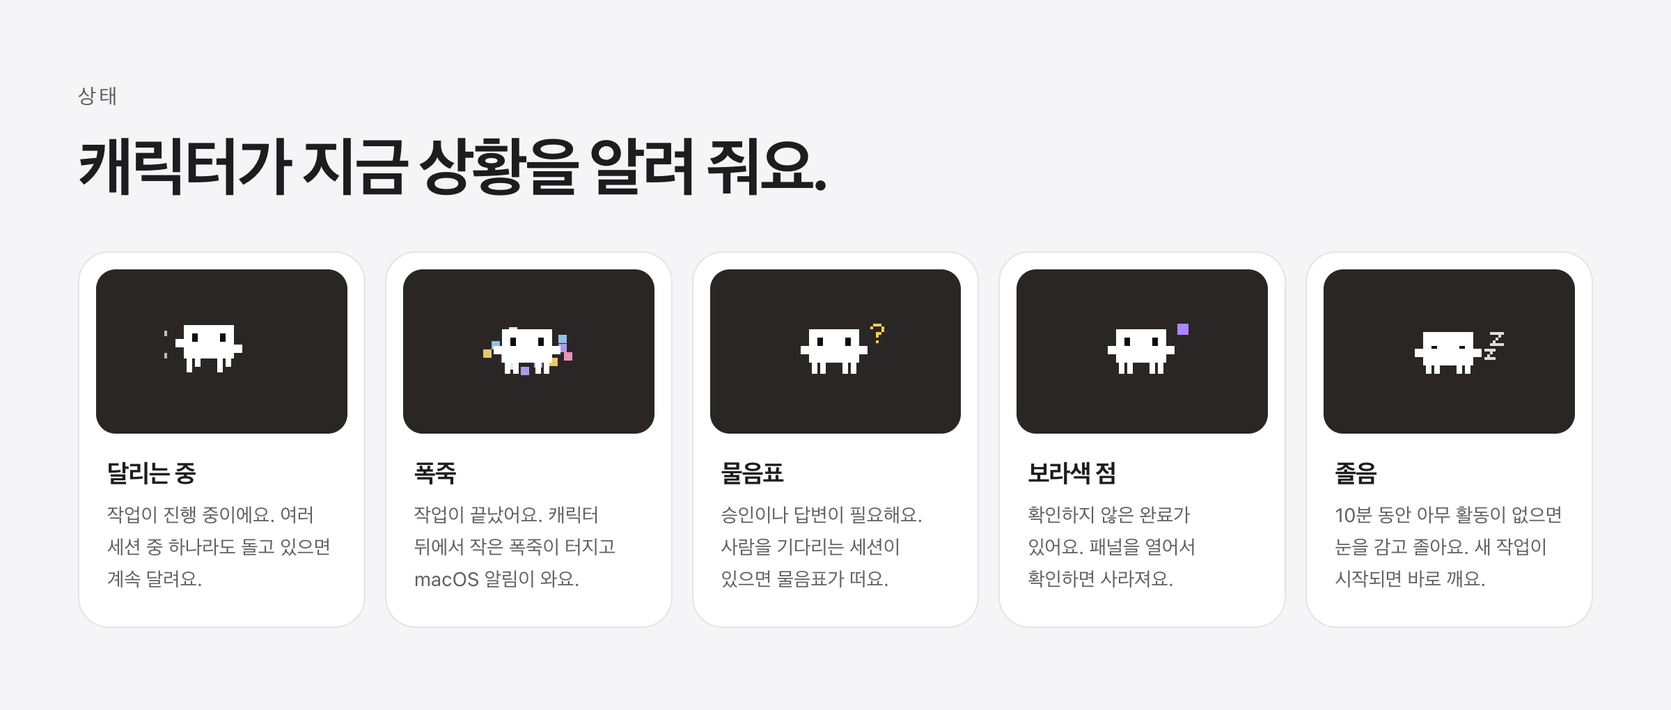
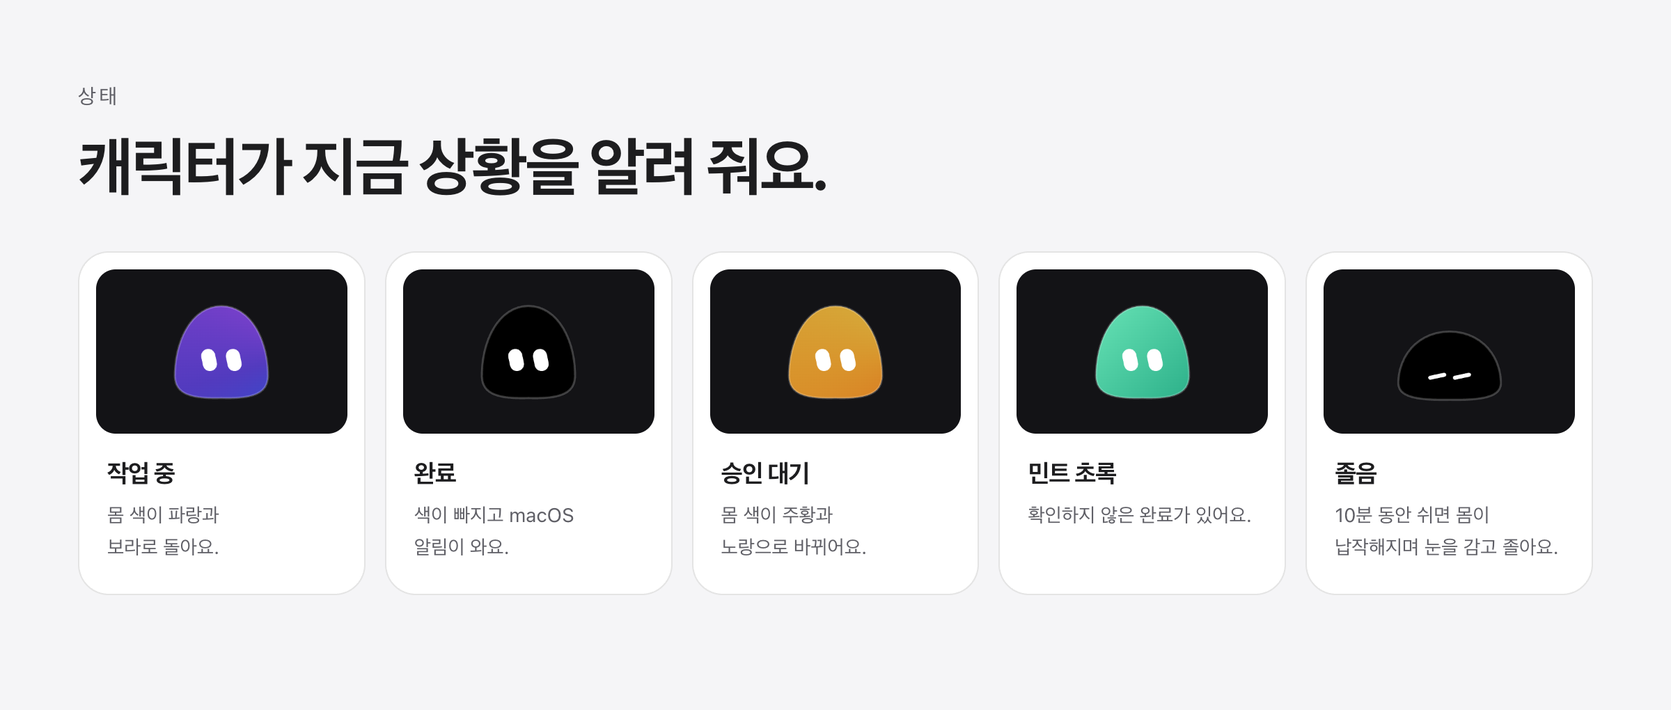
docs: README 이미지를 바뀐 토토와 최신 랜딩 문구로 다시 만듦
히어로, 설치, 상태, 기능, 알림 이미지의 원본을 최신 랜딩에 맞췄다.
토토는 랜딩의 캔버스 그리기를 옮기고, 상단바 표기와 설치 단계 문구, 벤토 기능 구성, 표시할 패널 메뉴를 반영했다.
설치와 기능 슬라이드 높이가 바뀌어 build.sh의 값도 함께 고쳤다.

Refs #79

diff --git a/docs/images/readme/source.html b/docs/images/readme/source.html
@@ -40,10 +40,10 @@
   .slide:target { display: block; }
   #hero { height: 956px; border-radius: 32px 32px 0 0; }
   #notice { border-radius: 0 0 32px 32px; }
-  #install { height: 660px; }
+  #install { height: 822px; }
   #problem { height: 376px; }
   #states { height: 510px; }
-  #features { height: 1170px; }
+  #features { height: 1545px; }
   #privacy { height: 680px; }
   #notice { height: 250px; }
   .eyebrow { font-family: var(--font-pixel); font-size: 15px; letter-spacing: 0.14em; color: var(--muted); }
@@ -54,12 +54,12 @@
   .card p { margin: 8px 8px 0; font-size: 16px; color: var(--muted); line-height: 1.65; }
 
   /* 캐릭터 */
-  canvas.sp { display: block; image-rendering: pixelated; }
-  .strip { background: var(--strip); border-radius: 14px; height: 118px; display: grid; place-items: center; }
+  canvas.toto { display: block; }
+  .strip { background: #131316; border-radius: 14px; height: 118px; display: grid; place-items: center; }
 
   /* 히어로 */
   .brand { display: flex; align-items: center; gap: 12px; font-family: var(--font-pixel); font-size: 22px; letter-spacing: 0.06em; }
-  .brand .logo { background: var(--strip); border-radius: 10px; padding: 4px 6px 2px; }
+  .brand .logo { background: var(--strip); border-radius: 10px; padding: 4px; display: grid; }
   .hero-title { margin-top: 26px; font-size: 68px; font-weight: 700; letter-spacing: -0.045em; line-height: 1.1; }
   .hero-lead { margin-top: 20px; font-size: 21px; color: var(--muted); }
   .pills { margin-top: 24px; display: flex; gap: 10px; }
@@ -113,7 +113,7 @@
   .row .track i { background: rgba(255, 255, 255, 0.62); }
   .row .more { display: none; justify-content: space-between; margin-top: 8px; font-size: 11px; color: rgba(255, 255, 255, 0.6); font-variant-numeric: tabular-nums; }
   .row.hover { background: linear-gradient(100deg, rgba(150, 160, 230, 0.28), rgba(230, 140, 190, 0.3)); }
-  .row.hover .more { display: flex; }
+  .row.hover .more, .row.open .more { display: flex; }
   .cursor { position: absolute; z-index: 9; width: 24px; height: 29px; filter: drop-shadow(0 1px 1.5px rgba(0, 0, 0, 0.45)); }
 
   /* 설치 */
@@ -128,6 +128,9 @@
   .steps li { display: grid; grid-template-columns: 26px 1fr; gap: 8px; counter-increment: step; }
   .steps li::before { content: counter(step); font-family: var(--font-pixel); font-size: 17px; }
   .req { margin-top: auto; padding-top: 24px; display: flex; flex-wrap: wrap; gap: 10px; }
+  .cols .why-card { grid-column: 1 / -1; padding: 22px 28px 24px; }
+  .why-card p { margin: 0; font-size: 15px; line-height: 1.7; color: var(--muted); }
+  .why-card b { color: var(--fg); font-weight: 700; }
 
   /* 문제와 상태 */
   .three { margin-top: 34px; display: grid; grid-template-columns: repeat(3, 1fr); gap: 20px; }
@@ -142,6 +145,13 @@
 
   /* 기능 */
   .fgrid { margin-top: 34px; display: grid; grid-template-columns: repeat(3, 1fr); gap: 20px; }
+  .fgrid .wide, .fgrid .full { display: grid; grid-template-columns: minmax(0, 0.8fr) minmax(0, 1.2fr); gap: 28px; align-items: center; padding: 28px; }
+  .fgrid .wide { grid-column: span 2; }
+  .fgrid .full { grid-column: 1 / -1; }
+  .fgrid .ftext { order: -1; }
+  .fgrid .ftext h3 { margin: 0; font-size: 28px; }
+  .fgrid .ftext p { margin: 12px 0 0; font-size: 17px; color: var(--muted); line-height: 1.65; }
+  .fgrid .wide .fv, .fgrid .full .fv { aspect-ratio: auto; min-height: 300px; height: 100%; }
   .fv { aspect-ratio: 1 / 0.86; border-radius: 14px; background: var(--wallpaper); display: grid; place-items: center; padding: 20px; overflow: hidden; }
   .fv .glass, .fv-stack { width: 100%; }
   .fv-stack { display: grid; gap: 10px; }
@@ -158,7 +168,7 @@
   .fv-noti small { font-size: 12px; opacity: 0.75; }
   .menu-wrap { position: relative; width: 178px; margin-right: 74px; }
   .menu, .sub-menu { padding: 5px; border-radius: 12px; color: #1d1d1f; font-size: 11.5px; line-height: 20px; background: rgba(246, 246, 248, 0.88); border: 0.5px solid rgba(0, 0, 0, 0.14); box-shadow: 0 12px 28px rgba(0, 20, 80, 0.32); }
-  .sub-menu { position: absolute; left: calc(100% - 10px); top: 114px; min-width: 84px; }
+  .sub-menu { position: absolute; left: calc(100% - 10px); top: 94px; min-width: 84px; }
   .mi { display: flex; align-items: center; height: 20px; padding: 0 8px 0 4px; border-radius: 6px; white-space: nowrap; }
   .mi.checked > :first-child::before { content: "\2713"; }
   .mi > :first-child { width: 14px; flex: none; text-align: center; font-size: 10px; }
@@ -180,13 +190,13 @@
 
 <!-- 1. 히어로 -->
 <section class="slide" id="hero">
-  <div class="brand"><span class="logo"><canvas class="sp" data-unit="1" data-mode="stand" data-track="30"></canvas></span>Desktoto</div>
-  <h1 class="hero-title">AI가 일하는 동안,<br>메뉴바에서 지켜보세요.</h1>
-  <p class="hero-lead">AI Agent(Claude Code, Codex) 세션의 진행 상태를 메뉴바의 작은 캐릭터로 보여줘요.</p>
+  <div class="brand"><span class="logo"><canvas class="toto" data-size="26" data-mode="run" data-turn="0.12"></canvas></span>Desktoto</div>
+  <h1 class="hero-title">AI가 일하는 동안,<br>지켜보세요.</h1>
+  <p class="hero-lead">AI Agent(Claude Code, Codex) 세션의 진행 상태를 상단바나 노치의 작은 캐릭터로 보여줘요.</p>
   <div class="pills"><span class="pill dark">macOS 26 이상</span><span class="pill">Apple Silicon</span><span class="pill">무료</span></div>
   <div class="tour">
     <svg class="tour-line" viewBox="0 0 1088 410" preserveAspectRatio="xMidYMid slice" aria-hidden="true"><path d="M-80 220 L0 236 C190 270 420 392 580 388 C780 380 960 220 1088 70 C1150 0 1210 -70 1260 -130" fill="none" stroke="#fff" stroke-width="1.6" opacity="0.8"/></svg>
-    <div class="menubar"><div class="left"><b>Finder</b><span>파일</span><span>편집</span><span>보기</span><span>이동</span></div><div class="right"><canvas class="sp" data-unit="2" data-mode="run" data-phase="5" data-track="41"></canvas><span class="mpill">한</span><span>오전 10:24</span></div></div>
+    <div class="menubar"><div class="left"><b>Finder</b><span>파일</span><span>편집</span><span>보기</span><span>이동</span></div><div class="right"><canvas class="toto" data-size="28" data-mode="run" data-turn="0.2"></canvas><span class="mpill">한</span><span>오전 10:24</span></div></div>
     <div class="win term"><div class="bar"><span class="lights"><i></i><i></i><i></i></span><span>claude — payments</span></div><div class="tx"><div><span class="c-b">❯</span> claude</div><div><span class="c-g">●</span> 결제 모듈을 정리할게요.</div><div class="c-d">  Read(src/payments/charge.ts)</div><div class="c-d">  Edit(src/payments/refund.ts)</div><div><span class="c-g">✓</span> 테스트 12개 통과</div><div><span class="c-y">?</span> 이 변경을 적용할까요?</div></div></div>
     <div class="win app front"><div class="bar"><span class="lights"><i></i><i></i><i></i></span><span>로그인 버그 수정</span></div><div class="main"><div class="side"><p class="on">로그인 버그 수정</p><p>문서 정리</p><p>결제 모듈 리팩터링</p></div><div class="chat"><div class="me">로그인이 가끔 실패하는 이유를 찾아줘</div><div class="ai">토큰이 만료될 때 갱신 요청이 두 번 나가고 있어요. 한 번만 보내도록 고칠게요.</div><div class="inp">메시지를 입력하세요</div></div></div></div>
     <div class="panel">
@@ -220,13 +230,14 @@
       <h3>dmg로 설치</h3>
       <ol class="steps">
         <li><span>Desktoto.dmg를 받아 열고, Desktoto를 응용 프로그램 폴더로 끌어다 놓아요.</span></li>
-        <li><span>처음 열면 개발자를 확인할 수 없다는 경고가 떠요. 창을 닫아요.</span></li>
-        <li><span>시스템 설정, 개인정보 보호 및 보안 맨 아래에서 &ldquo;그래도 열기&rdquo;를 누르고 암호를 입력해요.</span></li>
-        <li><span>다시 열면 메뉴바에 캐릭터가 나타나요.</span></li>
+        <li><span>처음 열면 &lsquo;열지 않음&rsquo; 경고가 떠요. &lsquo;휴지통으로 이동&rsquo;이 아니라 &lsquo;완료&rsquo;를 눌러요.</span></li>
+        <li><span>시스템 설정, 개인정보 보호 및 보안의 &lsquo;보안&rsquo; 영역에서 &ldquo;그래도 열기&rdquo;를 누르고 암호를 입력해요. 이 버튼은 앱을 열려고 한 뒤 약 1시간 동안만 보여요.</span></li>
+        <li><span>다시 열면 상단바에 캐릭터가 나타나요.</span></li>
       </ol>
       <p class="sub" style="margin-top:18px; font-size:15px">터미널이 편하다면 이 명령으로 경고 없이 열 수도 있어요.</p>
       <div class="cmd small" style="margin-top:10px"><span class="pr">$</span><span>xattr -dr com.apple.quarantine /Applications/Desktoto.app</span></div>
     </div>
+    <div class="card why-card"><p><b>왜 이런 과정이 필요한가요?</b> Mac은 인터넷에서 받은 앱을 처음 열 때, Apple에 등록된 개발자가 만들었고 Apple의 검사(공증)를 거쳤는지 확인해요. Desktoto는 아직 이 공증을 받지 않아서, 앱에 문제가 있다는 뜻이 아니라 &ldquo;Apple이 확인하지 못했다&rdquo;는 경고가 떠요. 한 번 허용하면 예외로 저장되어 다음부터는 바로 열려요.</p></div>
   </div>
 </section>
 
@@ -246,11 +257,11 @@
   <p class="eyebrow">상태</p>
   <h2 class="title">캐릭터가 지금 상황을 알려 줘요.</h2>
   <div class="five">
-    <div class="card"><div class="strip"><canvas class="sp" data-unit="2" data-mode="run" data-phase="8" data-track="41"></canvas></div><h3>달리는 중</h3><p>작업이 진행 중이에요. 여러 세션 중 하나라도 돌고 있으면 계속 달려요.</p></div>
-    <div class="card"><div class="strip"><canvas class="sp" data-unit="2" data-mode="stand" data-fw="9" data-track="41"></canvas></div><h3>폭죽</h3><p>작업이 끝났어요. 캐릭터 뒤에서 작은 폭죽이 터지고 macOS 알림이 와요.</p></div>
-    <div class="card"><div class="strip"><canvas class="sp" data-unit="2" data-mode="stand" data-wait="1" data-track="41"></canvas></div><h3>물음표</h3><p>승인이나 답변이 필요해요. 사람을 기다리는 세션이 있으면 물음표가 떠요.</p></div>
-    <div class="card"><div class="strip"><canvas class="sp" data-unit="2" data-mode="stand" data-dot="1" data-track="41"></canvas></div><h3>보라색 점</h3><p>확인하지 않은 완료가 있어요. 패널을 열어서 확인하면 사라져요.</p></div>
-    <div class="card"><div class="strip"><canvas class="sp" data-unit="2" data-mode="sleep" data-sleep="2" data-track="41"></canvas></div><h3>졸음</h3><p>10분 동안 아무 활동이 없으면 눈을 감고 졸아요. 새 작업이 시작되면 바로 깨요.</p></div>
+    <div class="card"><div class="strip"><canvas class="toto" data-size="76" data-mode="run" data-turn="0.12"></canvas></div><h3>작업 중</h3><p>몸 색이 파랑과 보라로 돌아요.</p></div>
+    <div class="card"><div class="strip"><canvas class="toto" data-size="76" data-mode="done"></canvas></div><h3>완료</h3><p>색이 빠지고 macOS 알림이 와요.</p></div>
+    <div class="card"><div class="strip"><canvas class="toto" data-size="76" data-mode="wait" data-turn="0.3"></canvas></div><h3>승인 대기</h3><p>몸 색이 주황과 노랑으로 바뀌어요.</p></div>
+    <div class="card"><div class="strip"><canvas class="toto" data-size="76" data-mode="dot"></canvas></div><h3>민트 초록</h3><p>확인하지 않은 완료가 있어요.</p></div>
+    <div class="card"><div class="strip"><canvas class="toto" data-size="76" data-mode="sleep"></canvas></div><h3>졸음</h3><p>10분 동안 쉬면 몸이 납작해지며 눈을 감고 졸아요.</p></div>
   </div>
 </section>
 
@@ -259,16 +270,16 @@
   <p class="eyebrow">기능</p>
   <h2 class="title">필요한 것만 보이게 했어요.</h2>
   <div class="fgrid">
-    <div class="card">
-      <div class="fv"><div class="glass sessions"><div class="row"><div class="head"><span>결제 모듈 리팩터링</span><span>37%</span></div><div class="track"><i style="width:37%"></i></div></div><div class="row"><div class="head"><span>로그인 버그 수정</span><span>18%</span></div><div class="track"><i style="width:18%"></i></div></div><div class="row"><div class="head"><span>문서 정리</span><span>8%</span></div><div class="track"><i style="width:8%"></i></div></div></div></div>
-      <h3>한 패널에 모든 세션</h3><p>제목, 컨텍스트 사용률, 막대만 보여요. 모델과 토큰 수는 마우스를 올렸을 때만 펼쳐져요. 승인이나 답변이 필요한 세션은 맨 위로 올라와요.</p>
+    <div class="card wide">
+      <div class="fv"><div class="glass sessions"><div class="row hover"><div class="head"><span>결제 모듈 리팩터링</span><span>37%</span></div><div class="track"><i style="width:37%"></i></div><div class="more"><span>claude-sonnet-5-5</span><span>372K / 1M</span></div></div><div class="row"><div class="head"><span>로그인 버그 수정</span><span>18%</span></div><div class="track"><i style="width:18%"></i></div></div><div class="row"><div class="head"><span>문서 정리</span><span>8%</span></div><div class="track"><i style="width:8%"></i></div></div></div></div>
+      <div class="ftext"><h3>한 패널에 모든 세션</h3><p>제목, 컨텍스트 사용률, 막대만 보여요. 모델과 토큰 수는 마우스를 올렸을 때만 펼쳐져요. 승인이나 답변이 필요한 세션은 맨 위로 올라와요.</p></div>
     </div>
     <div class="card">
       <div class="fv"><div class="glass usage"><div class="sec"><h4>Claude</h4><div class="use"><span>5시간</span><div class="track"><i style="width:42%"></i></div><b>42%</b><em>3시간 12분</em></div><div class="use"><span>주간</span><div class="track"><i style="width:18%"></i></div><b>18%</b><em>4일 2시간</em></div></div><div class="sec"><h4>Codex</h4><div class="use"><span>5시간</span><div class="track"><i style="width:12%"></i></div><b>12%</b><em>4시간 40분</em></div><div class="use"><span>주간</span><div class="track"><i style="width:6%"></i></div><b>6%</b><em>6일 1시간</em></div></div></div></div>
-      <h3>AI 사용량도 한눈에</h3><p>Claude와 Codex의 5시간과 주간 한도를 패널 맨 위에 고정해서 보여줘요. 얼마나 썼는지와 초기화까지 남은 시간을 알 수 있어요.</p>
+      <h3>AI 사용량도 한눈에</h3><p>Claude와 Codex의 5시간과 주간 한도를 패널 맨 위에 고정해서 보여줘요. 얼마나 썼는지와 초기화까지 남은 시간을 알 수 있고, 한도에 가까워지면 막대 색이 바뀌어요.</p>
     </div>
     <div class="card">
-      <div class="fv"><div class="glass sessions"><div class="row hover"><div class="head"><span>결제 모듈 리팩터링</span><span>37%</span></div><div class="track"><i style="width:37%"></i></div><div class="more"><span>claude-sonnet-5-5</span><span>372K / 1M</span></div></div><div class="row"><div class="head"><span>로그인 버그 수정</span><span>18%</span></div><div class="track"><i style="width:18%"></i></div></div><div class="row"><div class="head"><span>문서 정리</span><span>8%</span></div><div class="track"><i style="width:8%"></i></div></div></div></div>
+      <div class="fv"><div class="glass sessions"><div class="row open"><div class="head"><span>결제 모듈 리팩터링</span><span>37%</span></div><div class="track"><i style="width:37%"></i></div><div class="more"><span>claude-sonnet-5-5</span><span>372K / 1M</span></div></div><div class="row open"><div class="head"><span>로그인 버그 수정</span><span>18%</span></div><div class="track"><i style="width:18%"></i></div><div class="more"><span>claude-opus-4-8</span><span>181K / 1M</span></div></div><div class="row open"><div class="head"><span>문서 정리</span><span>8%</span></div><div class="track"><i style="width:8%"></i></div><div class="more"><span>claude-haiku-5-5</span><span>75K / 1M</span></div></div></div></div>
       <h3>컨텍스트 사용률</h3><p>모델마다 다른 컨텍스트 창 크기를 반영해서 사용률을 계산해요.</p>
     </div>
     <div class="card">
@@ -279,7 +290,8 @@
       <div class="fv"><div class="fv-stack"><div class="fv-noti"><b>Desktoto</b><span>작업이 끝났어요</span><small>결제 모듈 리팩터링</small></div><div class="fv-noti"><b>Desktoto</b><span>승인이 필요해요</span><small>로그인 버그 수정</small></div></div></div>
       <h3>알림을 눌러도 이동해요</h3><p>macOS 알림으로 &ldquo;작업이 끝났어요&rdquo;, &ldquo;승인이 필요해요&rdquo;, &ldquo;답변이 필요해요&rdquo;를 알려요. 알림을 누르면 해당 세션으로 가요.</p>
     </div>
-    <div class="card">
+    <div class="card full">
+      <div class="ftext"><h3>내 취향대로 꾸밀 수 있어요</h3><p>색상은 흰색과 컬러, 테마는 라이트와 다크와 시스템 설정에 맞춤 중에서 고를 수 있어요. Liquid Glass는 투명에서 틴트까지 5단계이고, 패널에는 사용량과 컨텍스트 중 보고 싶은 것만 띄울 수도 있어요.</p></div>
       <div class="fv"><div class="menu-wrap">
         <div class="menu">
           <div class="mi checked"><span></span><span>로그인 시 자동 실행</span></div>
@@ -287,16 +299,15 @@
           <div class="mi checked"><span></span><span>Codex 연동</span></div>
           <div class="mi checked"><span></span><span>Claude 연동</span></div>
           <div class="msep"></div>
-          <div class="mi sub"><span></span><span>표시할 패널</span></div>
-          <div class="mi sub on"><span></span><span>색상</span></div>
+          <div class="mi sub on"><span></span><span>표시할 패널</span></div>
+          <div class="mi sub"><span></span><span>색상</span></div>
           <div class="mi sub"><span></span><span>테마</span></div>
           <div class="mi sub"><span></span><span>Liquid Glass</span></div>
           <div class="msep"></div>
           <div class="mi"><span></span><span>Desktoto 종료</span><span class="key">&#8984;Q</span></div>
         </div>
-        <div class="sub-menu"><div class="mi checked"><span></span><span>흰색</span></div><div class="mi"><span></span><span>컬러</span></div></div>
+        <div class="sub-menu"><div class="mi checked"><span></span><span>사용량</span></div><div class="mi checked"><span></span><span>컨텍스트</span></div></div>
       </div></div>
-      <h3>내 취향대로 꾸밀 수 있어요</h3><p>색상은 흰색과 컬러, 테마는 라이트와 다크와 시스템 설정에 맞춤 중에서 고를 수 있어요. Liquid Glass는 투명에서 틴트까지 5단계예요.</p>
     </div>
   </div>
 </section>
@@ -318,75 +329,70 @@
 <section class="slide" id="notice">
   <p>알아 두세요</p>
   <p>Desktoto는 수익을 목적으로 하지 않는 무료 프로젝트예요. 광고도, 결제도 없어요.</p>
-  <p>캐릭터는 Claude Code의 마스코트에서 영감을 받은 팬 작품이에요. Claude는 Anthropic의, Codex는 OpenAI의 상표이고, Desktoto는 두 회사의 공식 제품이 아니에요.</p>
+  <p>Claude는 Anthropic의, Codex는 OpenAI의 상표이고, Desktoto는 어느 회사의 공식 제품도 아니에요.</p>
 </section>
 
 <script>
-/* 캐릭터 그리기: 앱(SpriteRenderer.swift)과 같은 격자와 도형이다. 한 칸이 화면 픽셀 정수 배가 되도록 맞춘다. */
+/* 캐릭터 그리기: 랜딩 페이지(apps/web/index.html)의 상태 줄과 같은 코드이고, 앱의 TotoShape.swift, TotoArt.swift와 같은 모양이다.
+   만두 모양 몸, 옅은 테두리, 12도 기울어진 알약 눈이다. README는 정지 이미지라서 눈 깜빡임과 몸 색 회전은 한 프레임으로 고정한다.
+   data-mode: run(작업 중), wait(승인 대기), done(완료), dot(민트 초록), sleep(졸음), stand(기본). data-size: 몸 크기(px). data-turn: 몸 색 회전(0에서 1). */
 (function () {
-  var UNITS_WIDE = 41, CHAR_W = 24, TRACK = 36, TRAVEL = TRACK - CHAR_W;
-  var STAND_X = Math.floor((UNITS_WIDE - CHAR_W) / 2);
-  var RUN_FRAMES = 24, LEG_FRAMES = 3, FW_FRAMES = 24, MAX_BOB = 2;
-  var LEG_COLUMNS = [4, 7, 15, 18];
-  var Z_SMALL = ["1111", "0010", "0100", "1111"];
-  var Z_BIG = ["11111", "00010", "00100", "01000", "11111"];
-  var Z_STEPS = [[[0, 0, 11]], [[0, 0, 9]], [[0, 0, 9], [1, 2, 3]], [[0, 0, 9], [1, 2, 3]], [[1, 2, 2]], []];
-  var QUESTION = ["01110", "10001", "00001", "00110", "00100", "00000", "00100"];
-  var REACHES = [19, 15, 11];
-  var SPARK_COLORS = ["#ff9ec7", "#ffd973", "#9ed1ff", "#bda9ff", "#ffffff"];
+  var WORKING = ["#298ff5", "#385cf5", "#6145e0", "#944cf0", "#bd4ddb", "#6b70fa", "#298ff5"];
+  var WAITING = ["#ff8c26", "#ffad33", "#facc47", "#ff9e2e", "#f57a24", "#ffbd3d", "#ff8c26"];
+  var UNSEEN_DONE = ["#6be6b8", "#29ad87"];
+  var PAD = 2;
+
+  function addTotoPath(ctx, x, y, w, h) {
+    var p = function (fx, fy) { return [x + fx * w, y + fy * h]; };
+    var a = p(0.5, 0.94);
+    ctx.moveTo(a[0], a[1]);
+    [[[0.16, 0.95], [0.05, 0.88], [0.06, 0.7]], [[0.07, 0.36], [0.24, 0.07], [0.5, 0.07]], [[0.76, 0.07], [0.93, 0.36], [0.94, 0.7]], [[0.95, 0.88], [0.84, 0.95], [0.5, 0.94]]].forEach(function (c) {
+      var c1 = p(c[0][0], c[0][1]), c2 = p(c[1][0], c[1][1]), e = p(c[2][0], c[2][1]);
+      ctx.bezierCurveTo(c1[0], c1[1], c2[0], c2[1], e[0], e[1]);
+    });
+    ctx.closePath();
+  }
+
+  function drawEye(ctx, x, y, w, h) {
+    ctx.save(); ctx.translate(x, y); ctx.rotate(-12 * Math.PI / 180);
+    ctx.beginPath(); ctx.roundRect(-w / 2, -h / 2, w, h, Math.min(w, h) / 2); ctx.fill(); ctx.restore();
+  }
 
   function draw(canvas) {
-    var unit = +canvas.dataset.unit, wide = +canvas.dataset.track || UNITS_WIDE, dpr = 2;
-    var mode = canvas.dataset.mode, phase = +canvas.dataset.phase || 0;
-    var fwFrame = canvas.dataset.fw === undefined ? null : +canvas.dataset.fw;
-    canvas.width = wide * unit * dpr; canvas.height = 20 * unit * dpr;
-    canvas.style.width = wide * unit + "px"; canvas.style.height = 20 * unit + "px";
-    var ctx = canvas.getContext("2d"), scale = unit * dpr;
-    var fill = function (x, y, w, h, color, alpha) {
-      var l = Math.round(x * scale), t = Math.round(y * scale), r = Math.round((x + w) * scale), b = Math.round((y + h) * scale);
-      if (r <= l || b <= t) return;
-      ctx.globalAlpha = alpha === undefined ? 1 : alpha; ctx.fillStyle = color; ctx.fillRect(l, t, r - l, b - t); ctx.globalAlpha = 1;
-    };
-    var running = mode === "run", sleeping = mode === "sleep";
-    var legStep = phase / LEG_FRAMES, isLegA = Math.floor(legStep) % 2 === 0;
-    var ox = running ? phase / RUN_FRAMES * TRAVEL : STAND_X;
-    var oy = running ? MAX_BOB * (0.5 + 0.5 * Math.cos(Math.PI * legStep)) : (sleeping ? MAX_BOB + 1 : MAX_BOB);
+    var d = +canvas.dataset.size, mode = canvas.dataset.mode || "stand", turn = +canvas.dataset.turn || 0, dpr = 3;
+    var size = d + PAD * 2, cx = size / 2, cy = size / 2, r = d / 2, unit = d / 18;
+    canvas.width = size * dpr; canvas.height = size * dpr; canvas.style.width = size + "px"; canvas.style.height = size + "px";
+    var ctx = canvas.getContext("2d");
+    ctx.setTransform(dpr, 0, 0, dpr, 0, 0);
+    var isAsleep = mode === "sleep";
+    // 앱의 sleepySquash: 잠들면 폭 1.1배, 높이 0.74배로 바닥에 붙은 채 위가 내려앉는다.
+    var squashW = isAsleep ? 1.1 : 1, squashH = isAsleep ? 0.74 : 1;
+    var body = { x: cx - r * squashW, y: cy + r - r * 2 * squashH, w: r * 2 * squashW, h: r * 2 * squashH };
 
-    if (fwFrame !== null) {
-      var p = fwFrame / (FW_FRAMES - 1), eased = 1 - Math.pow(1 - p, 2), alpha = Math.max(0, 1 - Math.pow(p, 2.4));
-      var size = p < 0.45 ? 3 : (p < 0.8 ? 2 : 1), cx = wide / 2;
-      for (var i = 0; i < 14; i++) {
-        var angle = 2 * Math.PI * i / 14 + 0.3, radius = 8 + (REACHES[i % 3] - 8) * eased;
-        fill(cx + Math.cos(angle) * radius - size / 2, 9 + Math.sin(angle) * radius * 0.5 + 4 * p * p - size / 2, size, size, SPARK_COLORS[i % 5], alpha);
-      }
+    ctx.save();
+    ctx.beginPath(); addTotoPath(ctx, body.x, body.y, body.w, body.h);
+    ctx.fillStyle = "#000"; ctx.fill(); ctx.clip();
+    if (mode === "dot") {
+      var mint = ctx.createLinearGradient(body.x, body.y, body.x + body.w, body.y + body.h);
+      mint.addColorStop(0, UNSEEN_DONE[0]); mint.addColorStop(1, UNSEEN_DONE[1]);
+      ctx.fillStyle = mint; ctx.fillRect(body.x, body.y, body.w, body.h);
     }
-    if (running) {
-      [[2, 7, 3], [6, 4, 4], [10, 7, 3]].forEach(function (line) {
-        var end = ox - line[2], start = Math.max(0, end - line[1]);
-        if (end > start) fill(start, oy + line[0], end - start, 2, "#cccccc", 0.9);
-      });
+    if ((mode === "run" || mode === "wait") && ctx.createConicGradient) {
+      var colors = mode === "wait" ? WAITING : WORKING;
+      var g = ctx.createConicGradient(turn * Math.PI * 2, cx + r * 1.6, cy);
+      colors.forEach(function (c, i) { g.addColorStop(i / (colors.length - 1), c); });
+      ctx.globalAlpha = 0.85; ctx.fillStyle = g; ctx.fillRect(0, 0, size, size); ctx.globalAlpha = 1;
     }
-    var legs = sleeping ? [3, 3, 3, 3] : !running ? [4, 4, 4, 4] : (isLegA ? [5, 3, 5, 3] : [3, 5, 3, 5]);
-    var arms = !running ? [0, 0] : (isLegA ? [-1, 1] : [1, -1]);
-    LEG_COLUMNS.forEach(function (col, idx) { fill(ox + col, oy + 12, 2, legs[idx], "#ffffff"); });
-    fill(ox, oy + 6 + arms[0], 3, 3, "#ffffff");
-    fill(ox + 21, oy + 6 + arms[1], 3, 3, "#ffffff");
-    fill(ox + 3, oy, 18, 12, "#ffffff");
-    fill(ox + 6, oy + (sleeping ? 5 : 3), 2, sleeping ? 1 : 3, "#0d0d0d");
-    fill(ox + 16, oy + (sleeping ? 5 : 3), 2, sleeping ? 1 : 3, "#0d0d0d");
-
-    var bx = ox + CHAR_W + 1;
-    if (canvas.dataset.wait) {
-      QUESTION.forEach(function (line, r) { for (var c = 0; c < line.length; c++) if (line.charAt(c) === "1") fill(bx + c, r, 1, 1, "#ffcc59"); });
-    } else if (canvas.dataset.dot) {
-      fill(bx, 0, 4, 4, "#ad85ff");
-    } else if (sleeping) {
-      Z_STEPS[+canvas.dataset.sleep || 2].forEach(function (z) {
-        (z[0] ? Z_BIG : Z_SMALL).forEach(function (line, r) { for (var c = 0; c < line.length; c++) if (line.charAt(c) === "1") fill(bx + z[1] + c, z[2] + r, 1, 1, "#ffffff", 0.85); });
-      });
-    }
+    ctx.restore();
+    ctx.beginPath(); addTotoPath(ctx, body.x, body.y, body.w, body.h);
+    ctx.strokeStyle = "rgba(255,255,255,0.22)"; ctx.lineWidth = 0.35 * unit; ctx.stroke();
+    // 앱처럼 눈은 2.4 x 3.8칸, 두 눈 가운데 사이 4.2칸이고, 몸 가운데보다 몸 높이의 8%만큼 아래에 둔다. 잠들면 가는 선으로 감는다.
+    ctx.fillStyle = "#fff";
+    var w = 2.4 * unit * (isAsleep ? 1.3 : 1), h = 3.8 * unit * (isAsleep ? 0.18 : 1);
+    var ey = body.y + body.h / 2 + 0.08 * body.h + (isAsleep ? 0.8 * unit : 0);
+    drawEye(ctx, cx - 2.1 * unit, ey, w, h); drawEye(ctx, cx + 2.1 * unit, ey, w, h);
   }
-  document.querySelectorAll("canvas.sp").forEach(draw);
+  document.querySelectorAll("canvas.toto").forEach(draw);
 })();
 </script>
 </body>
